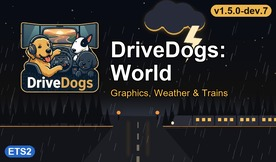
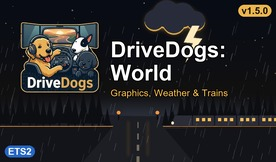
release world 1.5.0 after the playtest: dbm vegetation, terrain, guard rails, buildings and water built in, on ets2 1.62.1.0
The 1.5.0-dev.7 playtest (2026-11-07) passed: the Larissa quick travel that crashed dev.6 loads, 56 minutes,
no World-caused error. 1.4.3 never shipped, so its 1.62 changes (base 1.62.1.0, UK sign frames, moved bus
stops) move into the 1.5.0 changelog.

- description: names DBM's sets in the summary and the do-not-load list; v1.5.0 changelog (DBM sets, grass
  draw distance, 1.62 base, UK frames, bus stops, Real companies' 1.62 price boards and looks, ~12 GB)
- README: v1.5.0 content, DBM in graphics and water, ~12 GB, DBM in the disable list, 16 sources
- cover badge v1.5.0

Changed region(s): [[0.7536, 0.0, 0.9855, 0.1235]]

diff --git a/README.md b/README.md
@@ -4,16 +4,18 @@ ETS2 mod for the world around the road, built as a local **megapack** with the `
 `scs-mod-developer` agent profile. This repo holds only configuration and tools. The mod is built from the
 extracted base game, subscribed Workshop items and one local archive. It is never redistributed.
 
-Current content (v1.4.3, ETS2 1.62.1.0):
+Current content (v1.5.0, ETS2 1.62.1.0):
 
 - **Graphics** from Juninho944 (Weather_3.9, Asphalt_improved, grass_4.0_lite, tree_improved_4k), DIOX (Beautiful
-  Nature) and Darkcaptain (Realistic Rain), in the maintainer's load order.
-- **Water, lightning and thunder** from Kass (Realistic Rain & Water & Thunder Sounds).
+  Nature), Darkcaptain (Realistic Rain) and DBM (Vegetation, Terrain Textures, Guard Rails 4K, World & Buildings HD;
+  above Juninho944's and DIOX's where they overlap), in the maintainer's load order.
+- **Water** from DBM Water (lake waves, foam, shores, beaches) and Kass (rivers, distant water); **lightning and
+  thunder** from Kass (Realistic Rain & Water & Thunder Sounds).
 - **Wet roads**: Grimes' Realistic Rain Reflections wheel tracks blended into the winning road normal maps and
   junctions (World's own on the older roads, UK junctions and yards), a rough wet grain on every asphalt, its wet
   reflections on sidewalks, tiles and concrete, and a softer sky mirror so the asphalt shows through. Needs the game's rain reflections and reflection quality set high.
 - **Road signs and markings** from DBM Road Signs & Markings 4K; **real company and gas station brands** from Real
-  companies & gas stations (MLH82, 4of25).
+  companies & gas stations (MLH82, 4of25), its pre-1.62 gas-station models given 1.62's looks and price boards.
 - **Weather and time**: a rain mix of mostly light and medium rain, lighter rain fog at night so headlights reach and
   by day and at dawn/dusk so the road ahead stays in sight, and a fixed date (27 September) for natural day and night.
 - **People at bus stops** from d-luX's Busy Bus Stations: its people, parked bus and lamp placed on the 1.62
@@ -36,13 +38,14 @@ trains), [ADR-0002](docs/adr/ADR-0002-world-graphics.md) (graphics, weather, bra
 
 ## Install
 
-1. Copy `output/local/drivedog_world_v<version>.scs` (one archive, ~7 GB) to `Documents/Euro Truck Simulator 2/mod/`.
+1. Copy `output/local/drivedog_world_v<version>.scs` (one archive, ~12 GB) to `Documents/Euro Truck Simulator 2/mod/`.
 2. In the mod manager, place it **above** Sound Fixes Pack (optional) and any other train sound or length mod.
 3. Disable the mods it contains (Workshop subscriptions included): Weather_3.9, Asphalt_improved, grass_4.0_lite,
    tree_improved_4k, Beautiful Nature, Beautiful Water, Realistic Rain, Realistic Rain Reflections, Realistic Rain &
-   Water & Thunder Sounds, DBM Road Signs & Markings 4K, Real companies & gas stations, Busy Bus Stations,
-   Realistic Train Lengths, Real Train Sounds ETS2, Different lenses of traffic lights (2931835197), and any
-   day/night or date mod (e.g. Workshop 1061306287).
+   Water & Thunder Sounds, DBM Road Signs & Markings 4K, DBM Vegetation, DBM Terrain Textures, DBM Guard Rails 4K,
+   DBM World & Buildings HD, DBM Water, Real companies & gas stations, Busy Bus Stations, Realistic Train Lengths,
+   Real Train Sounds ETS2, Different lenses of traffic lights (2931835197), and any day/night or date mod (e.g.
+   Workshop 1061306287).
 4. Remove the DriveDogs Better Flares Traffic Lights add-on (`BetterFlaresAddOns/TrafficLights`, deprecated): World
    carries everything it did.
 
@@ -99,7 +102,7 @@ patched source models in `overrides/` are git-ignored: `rain_reflections.py`, `b
 | Path | Purpose |
 |---|---|
 | `megapack.yaml` | package identity, base game version, base-edit files, `references:` (Realistic Train Lengths, Busy Bus Stations), one-archive cap |
-| `sources.yaml` | the 11 merged sources: layers, overrides, excludes (DBM's sign atlas/frame definitions must match the textures that win, see its comment) |
+| `sources.yaml` | the 16 merged sources: layers, overrides, excludes (DBM's sign atlas/frame definitions must match the textures that win, see its comment) |
 | `resolutions.yaml` | per-path collision decisions (partly written by `rain_reflections.py` and `model_variants.py`) |
 | `world/*.yaml` | base-game edits: generated by the tools, except `environment.yaml` |
 | `world/units/` | new game definition files (`harvest_brands.py`) |
